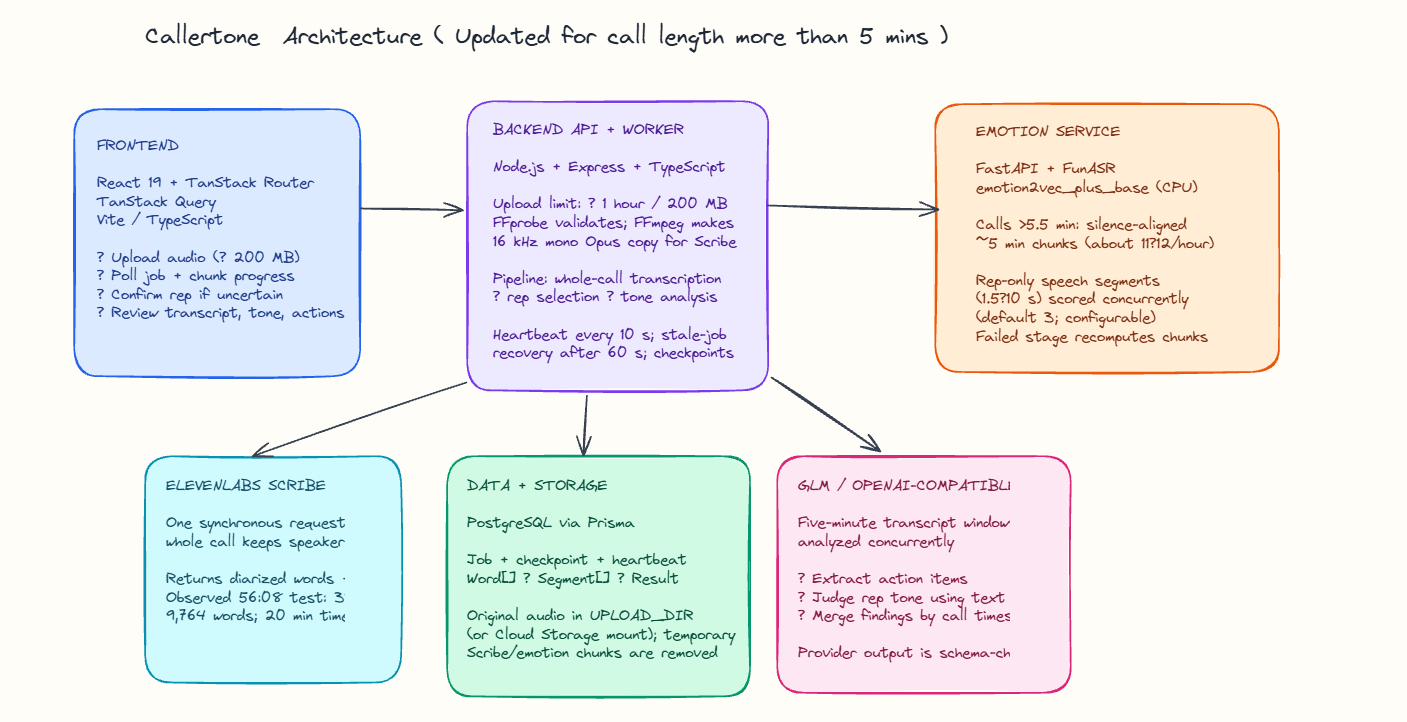
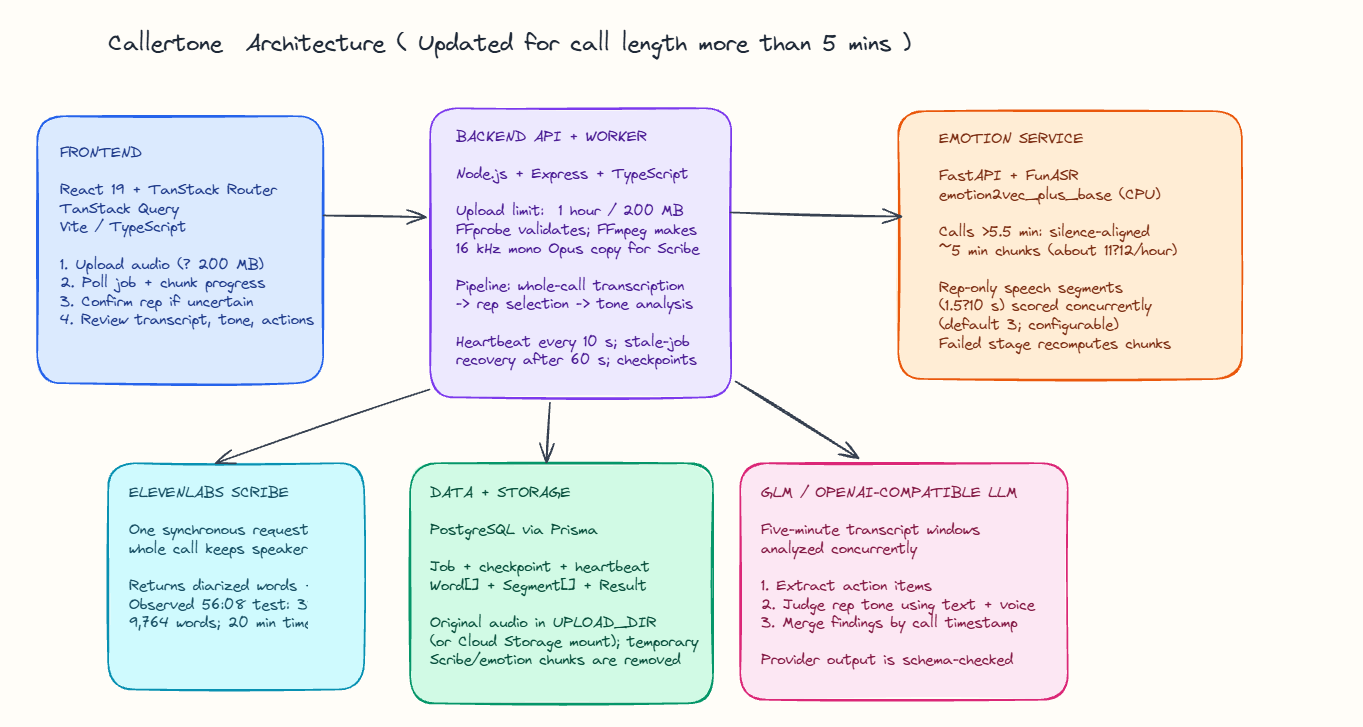
readme updates

diff --git a/DEPLOYMENT.md b/DEPLOYMENT.md
@@ -12,7 +12,7 @@ For a server where you can run Docker Compose, use the repository's `docker-comp
 4. Apply the database schema once with `docker compose --env-file .env.docker run --rm backend npx prisma migrate deploy --schema prisma/schema.prisma`.
 5. Route HTTPS traffic for the backend hostname to server port 8080 using a reverse proxy, and set Vercel's `VITE_API_URL` to that public HTTPS backend URL.
 
-The emotion service is only exposed on Compose's internal network. The recordings are kept in a named Docker volume. The Python model downloads on first start, so allow time and outbound internet access. If your friend specifically needs to pull prebuilt images instead of building from the repository, they will need an image registry; these Dockerfiles and Compose config build the images on the server.
+The emotion service is only exposed on Compose's internal network. The recordings are kept in a named Docker volume. Defaults accept audio up to one hour / 200 MB, send the full recording to Scribe once, then score long-call audio in five-minute emotion chunks with concurrency three. The Python model downloads on first start, so allow time and outbound internet access. If you need prebuilt images instead of building from the repository, configure an image registry.
 
 The Cloud Run definitions below are only for a GCP deployment.
 
@@ -32,7 +32,7 @@ The Cloud Run definitions below are only for a GCP deployment.
 6. In `backend/cloudrun.yaml`, replace the image region/project, `EMOTION_SERVICE_URL` with the emotion service URL, `YOUR_RECORDINGS_BUCKET`, and `YOUR_VERCEL_DOMAIN`. Deploy it with `gcloud run services replace backend/cloudrun.yaml --region REGION --project PROJECT_ID`. Keep unauthenticated access enabled for the browser API. Configure the bucket volume and Secret Manager permissions before starting the service.
 7. Apply Prisma migrations once from a trusted machine or CI environment with the production `DATABASE_URL` set: `npm ci --prefix backend`, then `npm run db:migrate --prefix backend`. The migration command uses Prisma's development migration workflow; for a production migration job, use `npx prisma migrate deploy --schema backend/prisma/schema.prisma` from the repository root after installing backend dependencies.
 
-The provided Cloud Run definitions use one request at a time per instance because the Python model is CPU-bound and the backend starts durable work in the request process. They set generous request timeouts for model loading and long recordings. Adjust instance limits and CPU/memory after measuring real workload and costs.
+The backend Cloud Run definition accepts one upload request per instance and returns `202` while the checkpointed pipeline runs in-process. The emotion service accepts three scoring requests per instance and limits model inference to three; it is capped at two instances by default. Adjust scale, CPU, and concurrency together after measuring workload and cost. A durable task queue is a better fit for high-volume or strict delivery guarantees.
 
 ## Vercel frontend
 
@@ -44,5 +44,6 @@ Import the repository into Vercel and set the project Root Directory to `fronten
 - The backend persists audio through a Cloud Storage FUSE mount. The service account needs bucket object read/write access. Keep the bucket in the same region where practical.
 - This project starts analysis work in-process after returning `202`. Active jobs hold a lease refreshed by a heartbeat (`HEARTBEAT_INTERVAL_MS`, default 10 s). The backend sweeps for jobs in active stages whose heartbeat is older than `STALE_HEARTBEAT_MS` (default 60 s) on startup and every stale interval, then resumes them from their last committed checkpoint. Claims are atomic, so several backend instances can share the database without double-processing. For stronger delivery guarantees, move job execution to Cloud Tasks or a queue worker before high-volume production use.
 - Emotion chunks are scored `EMOTION_CONCURRENCY` at a time (default 3). Keep this at or below the emotion service's `EMOTION_INFERENCE_CONCURRENCY` (also default 3) and size the service CPU accordingly; a single-core host should use `1` for both.
+- Docker Compose and Cloud Run definitions set the one-hour/200 MB upload limits, 20-minute per-request provider timeouts, and 10-second heartbeat / 60-second stale-job recovery defaults. Override them only when the host and upstream limits support the change.
 - There is no user authentication in the current app. A public backend URL allows anyone to upload and inspect calls. Add authentication and authorization before using this with sensitive or customer recordings.
 - Set `MAX_FILE_SIZE_BYTES`, `MAX_DURATION_SEC`, and `EXTERNAL_TIMEOUT_MS` on the backend as needed. Cloud Run request and memory limits also apply to 200 MB multipart uploads.

diff --git a/backend/README.md b/backend/README.md
@@ -1,6 +1,6 @@
 # Callertone backend
 
-The Node.js and Express API accepts recordings, stores job metadata in PostgreSQL, and runs a durable analysis pipeline. It coordinates transcription, voice emotion scoring, tone review, and action item extraction.
+The Node.js and Express API accepts recordings, stores job metadata in PostgreSQL, and runs a checkpointed analysis pipeline. It coordinates transcription, speaker selection, voice emotion scoring, tone review, and action-item extraction.
 
 ## Requirements
 
@@ -38,7 +38,7 @@ The API listens on port `4000` by default. Set `PORT` to change it.
 
 - `GET /health` — backend health and mock-mode status.
 - `GET /metrics` — basic process memory and uptime metrics.
-- `POST /jobs` — upload WAV, MP3, M4A, MP4, OGG, or OPUS audio (up to 200 MB).
+- `POST /jobs` — upload WAV, MP3, M4A, MP4, OGG, or OPUS audio (up to 200 MB and one hour by default).
 - `GET /jobs?page=1&pageSize=10&search=&filter=all&sort=newest` — paginated and filterable call list.
 - `GET /jobs/:id` — job, word-level transcript, speaker turns, voice scores, and final analysis.
 - `GET /jobs/:id/audio` — stream the original recording.
@@ -50,15 +50,18 @@ The API listens on port `4000` by default. Set `PORT` to change it.
 The job moves through `uploaded → transcribing → scoring_tone → analyzing → done` (or `failed`). Checkpoints let retries reuse committed transcript or voice-score data instead of repeating completed work.
 
 - ElevenLabs Scribe returns speaker diarization and word timestamps.
-- The local emotion service uses FFmpeg to cut rep speech segments and emotion2vec to score them.
-- The configured OpenAI-compatible GLM API extracts action items and assesses tone.
+- The backend estimates the rep among two speakers from the first five minutes; low confidence or a close result requires human confirmation.
+- Calls over 5.5 minutes are split into silence-aligned, roughly five-minute audio chunks; emotion2vec scores rep speech with concurrency three by default.
+- The configured OpenAI-compatible GLM API extracts action items and assesses tone from five-minute transcript windows plus voice scores; it does not receive audio.
 - Zod validates the language-model responses before they are saved.
+
+Workers heartbeat every 10 seconds by default. Startup and periodic sweeps reclaim jobs with stale heartbeats after 60 seconds; recovery resumes from the last checkpoint, though partial emotion-stage work may be repeated.
 
 ## Analysis settings
 
 The frontend sends its tone criteria and action-item preferences with each upload and reanalysis. The backend snapshots those settings on the job and applies them when generating the final result. Tone criteria control which text behaviors can be flagged; custom tone rules are included in the tone review prompt. Action-item settings control customer requests, implied commitments, the minimum confidence threshold, and additional extraction rules. Existing jobs without a saved settings snapshot use the backend defaults when reanalyzed.
 
-Saving custom tone rules runs quick local checks first, then one AI check for clear contradictions, unclear wording, and rules unrelated to the call. Successful AI results are cached in memory (up to 256 rule lists); if the AI check is unavailable, saving continues with a notice. Contradiction detection could move to a natural language inference (NLI) model in the future to reduce dependence on an LLM.
+Custom rules allow up to 10 entries of 300 characters each. Saving runs quick local checks first, then one AI check for clear contradictions, unclear wording, and rules unrelated to the call. Successful AI results are cached in memory (up to 256 rule lists); if the AI check is unavailable, saving continues with a notice. Contradiction detection could move to a natural language inference (NLI) model in the future to reduce dependence on an LLM.
 
 Uploaded recordings are stored in `UPLOAD_DIR` (default `backend/uploads`) and referenced by path from PostgreSQL. Keep this directory available for playback, retries, and reanalysis.
 

diff --git a/frontend/README.md b/frontend/README.md
@@ -13,6 +13,8 @@ npm run dev --prefix frontend
 
 The dev server prints its local URL. The backend must be running at `http://localhost:4000`; set `VITE_API_URL` in `frontend/.env` to use another backend URL.
 
+The uploader supports calls up to one hour and 200 MB by default. Long-call pages show transcription, speaker-confirmation, and emotion-chunk progress; users can confirm or change the selected sales-rep speaker.
+
 ## Useful commands
 
 ```powershell
